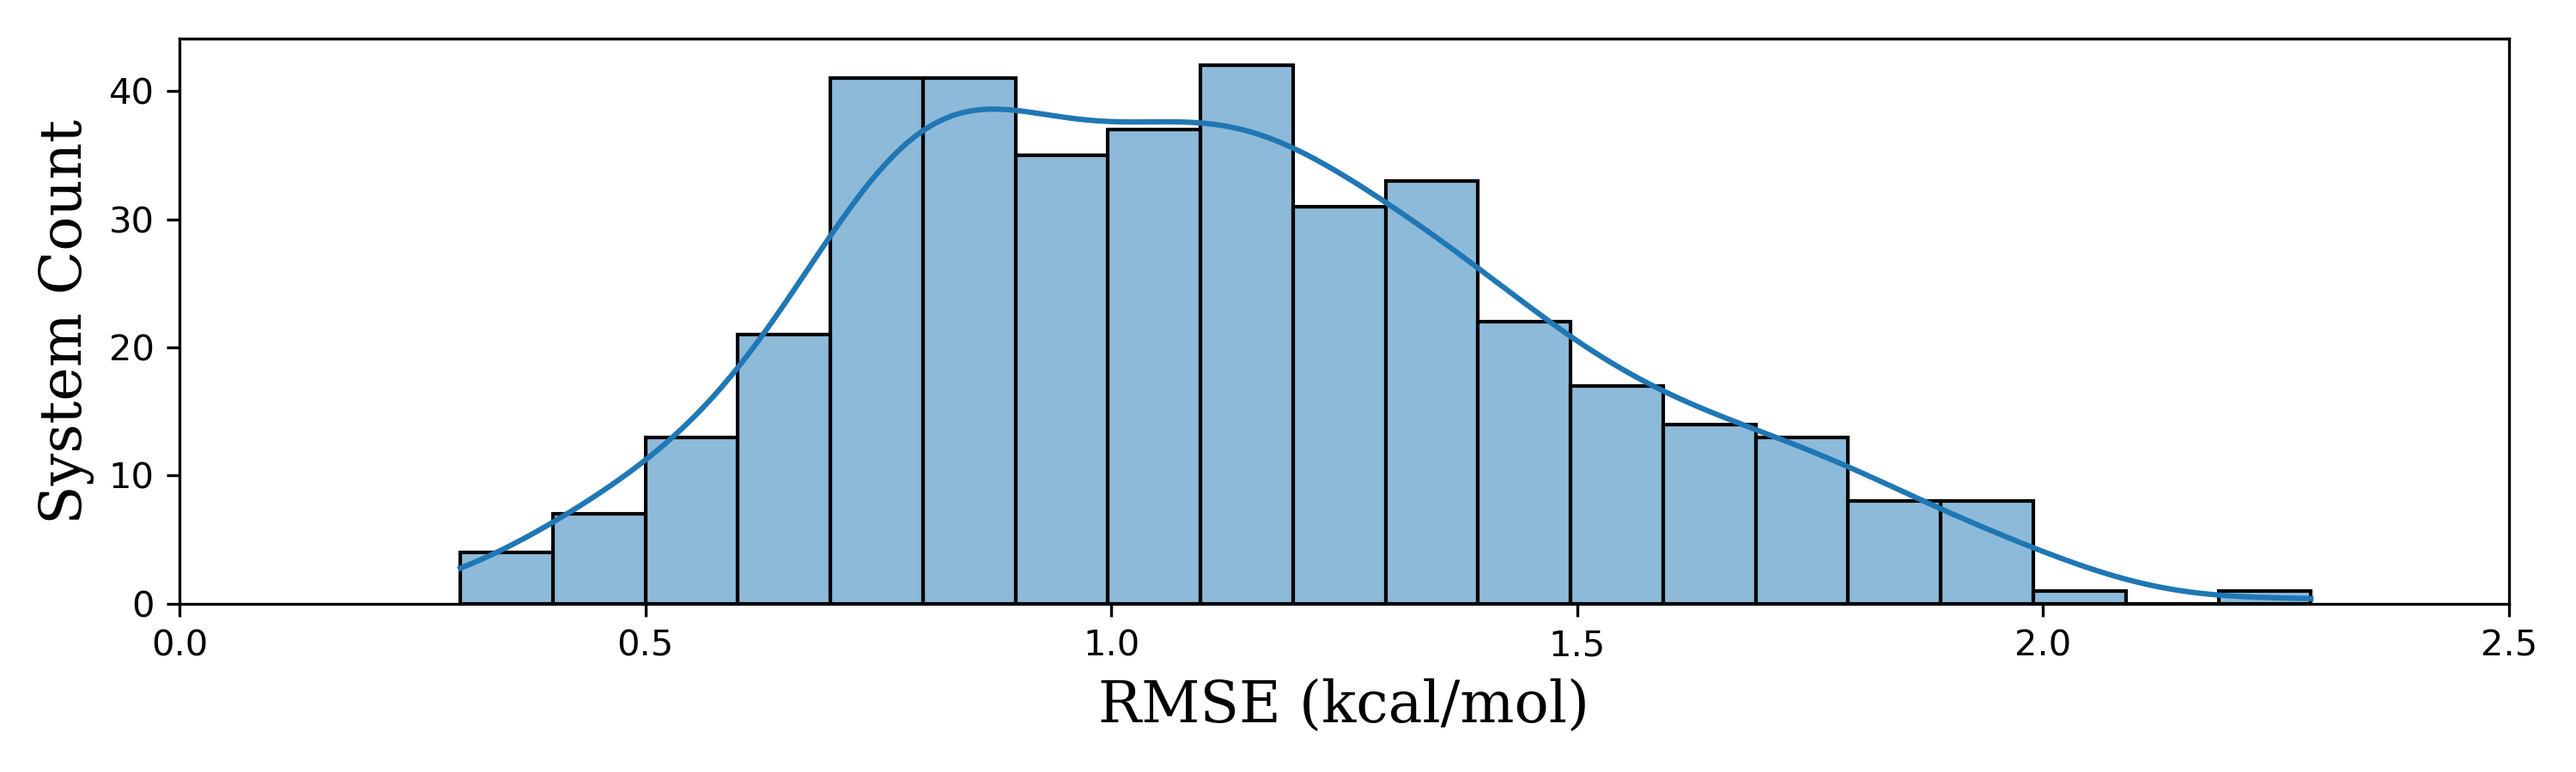
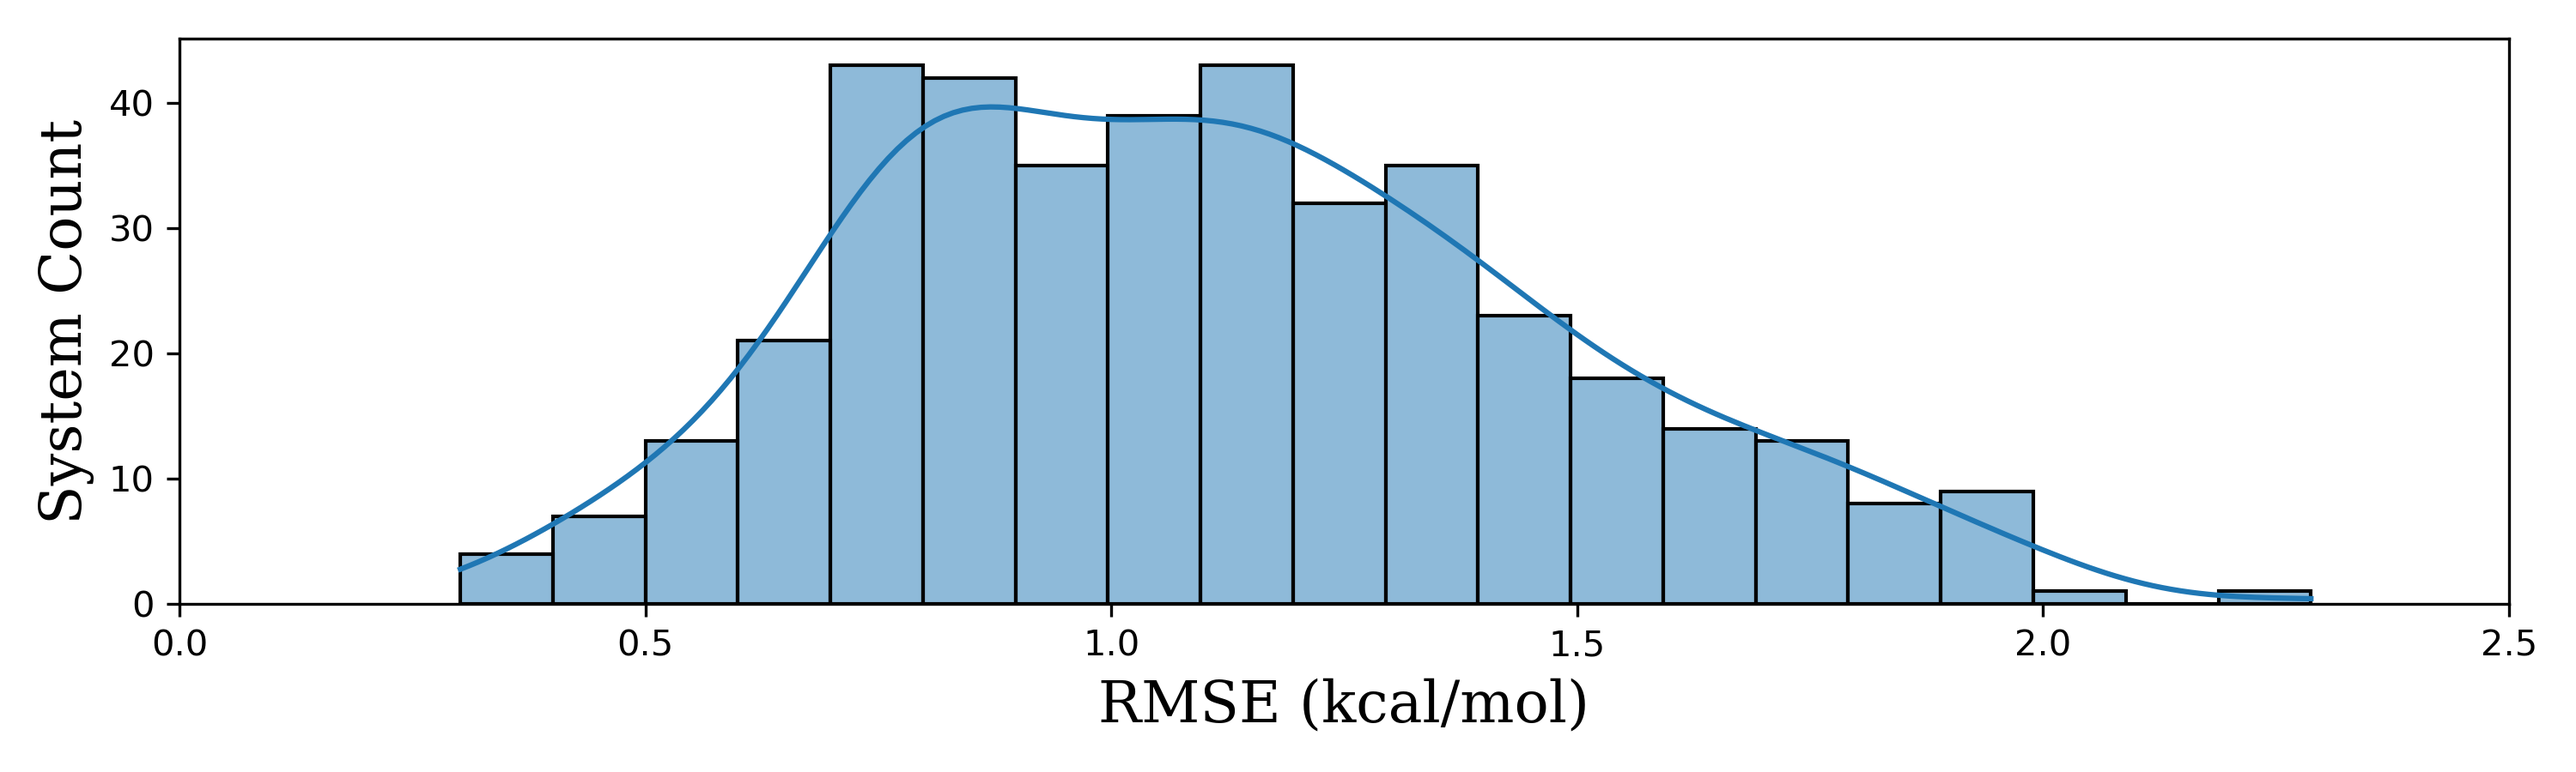
add 33_34_cases

diff --git a/README.md b/README.md
@@ -34,8 +34,8 @@ For more details, please refer to our [FEP Open Challenge introduction](https://
 
 
 ## Summary of Benchmark Results
-**Total Systems**: 389  
-**Total Ligands**: 6745
+**Total Systems**: 401  
+**Total Ligands**: 7149
 ![RMSE Distribution](rmse_distribution.png)
 ![Kendall's tau Distribution](tau_distribution.png)
 | Series | Target | N_Ligands | RMSE (kcal/mol) | R² | Kendall's tau | Description |
@@ -116,6 +116,7 @@ For more details, please refer to our [FEP Open Challenge introduction](https://
 | ChEMBL | CNR2 | 22 | 1.60 | 0.59 | 0.55 | CHEMBL921109 |
 | ChEMBL | CREBBP | 12 | 0.56 | 0.91 | 0.82 | CHEMBL3817157 |
 | ChEMBL | CREBBP | 18 | 0.70 | 0.59 | 0.50 | CHEMBL4058600 |
+| ChEMBL | CREBBP | 34 | 0.71 | 0.75 | 0.53 | CHEMBL4186385 |
 | ChEMBL | CSF1R | 25 | 1.54 | 0.42 | 0.44 | CHEMBL951197 |
 | ChEMBL | CSNK1D | 13 | 1.48 | 0.47 | 0.50 | CHEMBL2211470 |
 | ChEMBL | CTSS | 9 | 1.31 | 0.25 | 0.44 | CHEMBL1212307 |
@@ -159,6 +160,7 @@ For more details, please refer to our [FEP Open Challenge introduction](https://
 | ChEMBL | ESRRG | 20 | 1.12 | 0.19 | 0.32 | CHEMBL3857086 |
 | ChEMBL | ESRRG | 25 | 1.41 | 0.45 | 0.38 | CHEMBL4413805 |
 | ChEMBL | ESRRG | 9 | 0.95 | 0.41 | 0.48 | CHEMBL867061 |
+| ChEMBL | F10 | 34 | 1.54 | 0.75 | 0.60 | CHEMBL1925585 |
 | ChEMBL | F10 | 17 | 1.16 | 0.38 | 0.43 | CHEMBL3371468 |
 | ChEMBL | F10 | 27 | 1.07 | 0.37 | 0.41 | CHEMBL5107327 |
 | ChEMBL | F10 | 15 | 1.17 | 0.25 | 0.36 | CHEMBL657275 |
@@ -171,6 +173,7 @@ For more details, please refer to our [FEP Open Challenge introduction](https://
 | ChEMBL | F10 | 9 | 0.75 | 0.72 | 0.56 | CHEMBL906423 |
 | ChEMBL | F11 | 25 | 1.15 | 0.56 | 0.58 | CHEMBL3129742 |
 | ChEMBL | F2 | 16 | 0.84 | 0.65 | 0.58 | CHEMBL1067528 |
+| ChEMBL | F2 | 33 | 1.89 | 0.32 | 0.41 | CHEMBL3424914 |
 | ChEMBL | F2 | 14 | 0.78 | 0.82 | 0.71 | CHEMBL4479424 |
 | ChEMBL | F2 | 18 | 1.90 | 0.20 | 0.41 | CHEMBL808337 |
 | ChEMBL | F2 | 18 | 1.45 | 0.23 | 0.43 | CHEMBL813625 |
@@ -190,6 +193,7 @@ For more details, please refer to our [FEP Open Challenge introduction](https://
 | ChEMBL | GSK3B | 25 | 0.75 | 0.73 | 0.71 | CHEMBL1031513 |
 | ChEMBL | GSK3B | 22 | 1.31 | 0.58 | 0.53 | CHEMBL1102983 |
 | ChEMBL | GSK3B | 20 | 1.10 | 0.43 | 0.56 | CHEMBL1960393 |
+| ChEMBL | GSK3B | 34 | 1.33 | 0.46 | 0.40 | CHEMBL5252935 |
 | ChEMBL | HSP90AA1 | 18 | 0.98 | 0.29 | 0.11 | CHEMBL3107812 |
 | ChEMBL | HSP90AA1 | 9 | 0.99 | 0.62 | 0.67 | CHEMBL3427922 |
 | ChEMBL | HSP90AA1 | 23 | 1.60 | 0.38 | 0.44 | CHEMBL3885742 |
@@ -209,6 +213,7 @@ For more details, please refer to our [FEP Open Challenge introduction](https://
 | ChEMBL | JAK1 | 10 | 0.51 | 0.65 | 0.72 | CHEMBL4620434 |
 | ChEMBL | JAK2 | 29 | 0.77 | 0.77 | 0.58 | CHEMBL1685409 |
 | ChEMBL | JAK2 | 13 | 0.69 | 0.47 | 0.40 | CHEMBL2160361 |
+| ChEMBL | JAK2 | 34 | 1.00 | 0.57 | 0.61 | CHEMBL2421805 |
 | ChEMBL | JAK2 | 30 | 0.86 | 0.42 | 0.42 | CHEMBL3374493 |
 | ChEMBL | JAK2 | 16 | 1.41 | 0.64 | 0.62 | CHEMBL3404501 |
 | ChEMBL | JAK2 | 15 | 0.84 | 0.42 | 0.45 | CHEMBL3625473 |
@@ -271,6 +276,7 @@ For more details, please refer to our [FEP Open Challenge introduction](https://
 | ChEMBL | MDM2 | 12 | 0.46 | 0.31 | 0.30 | CHEMBL3705138 |
 | ChEMBL | MELK | 13 | 0.91 | 0.57 | 0.35 | CHEMBL3824963 |
 | ChEMBL | MELK | 8 | 0.79 | 0.72 | 0.62 | CHEMBL4006633 |
+| ChEMBL | METAP2 | 34 | 1.48 | 0.31 | 0.24 | CHEMBL4397057 |
 | ChEMBL | MET | 10 | 0.78 | 0.34 | 0.40 | CHEMBL1038130 |
 | ChEMBL | MET | 8 | 1.05 | 0.90 | 0.79 | CHEMBL2032485 |
 | ChEMBL | MET | 22 | 2.00 | 0.71 | 0.51 | CHEMBL3226601 |
@@ -280,6 +286,7 @@ For more details, please refer to our [FEP Open Challenge introduction](https://
 | ChEMBL | MET | 16 | 0.60 | 0.61 | 0.66 | CHEMBL4426787 |
 | ChEMBL | MMP13 | 13 | 1.22 | 0.83 | 0.58 | CHEMBL1798873 |
 | ChEMBL | MMP13 | 31 | 1.25 | 0.69 | 0.57 | CHEMBL3373425 |
+| ChEMBL | MMP13 | 34 | 1.03 | 0.59 | 0.57 | CHEMBL3388707 |
 | ChEMBL | MTAP | 17 | 0.98 | 0.40 | 0.38 | CHEMBL2073357 |
 | ChEMBL | NEK2 | 11 | 1.12 | 0.35 | 0.45 | CHEMBL1693342 |
 | ChEMBL | NEK2 | 19 | 1.42 | 0.42 | 0.46 | CHEMBL2044151 |
@@ -292,6 +299,8 @@ For more details, please refer to our [FEP Open Challenge introduction](https://
 | ChEMBL | PARP1 | 28 | 1.68 | 0.61 | 0.54 | CHEMBL1115415 |
 | ChEMBL | PARP2 | 16 | 1.45 | 0.35 | 0.55 | CHEMBL3607347 |
 | ChEMBL | PDE10A | 28 | 1.06 | 0.47 | 0.56 | CHEMBL1960211 |
+| ChEMBL | PDE10A | 33 | 0.86 | 0.27 | 0.31 | CHEMBL2020845 |
+| ChEMBL | PDE10A | 33 | 0.77 | 0.23 | 0.30 | CHEMBL2071880 |
 | ChEMBL | PDE10A | 17 | 1.46 | 0.37 | 0.50 | CHEMBL3297609 |
 | ChEMBL | PDE10A | 28 | 1.59 | 0.55 | 0.61 | CHEMBL3632375 |
 | ChEMBL | PDE1B | 13 | 1.16 | 0.51 | 0.53 | CHEMBL4011522 |
@@ -320,6 +329,7 @@ For more details, please refer to our [FEP Open Challenge introduction](https://
 | ChEMBL | PIM1 | 16 | 0.95 | 0.47 | 0.48 | CHEMBL1022925 |
 | ChEMBL | PIM1 | 12 | 0.77 | 0.55 | 0.50 | CHEMBL2038828 |
 | ChEMBL | PIM1 | 14 | 1.72 | 0.36 | 0.42 | CHEMBL2149642 |
+| ChEMBL | PIM1 | 35 | 1.21 | 0.52 | 0.57 | CHEMBL3301295 |
 | ChEMBL | PIM1 | 13 | 1.28 | 0.69 | 0.71 | CHEMBL3376646 |
 | ChEMBL | PIM1 | 17 | 1.37 | 0.48 | 0.41 | CHEMBL3887608 |
 | ChEMBL | PIM1 | 15 | 1.31 | 0.21 | 0.45 | CHEMBL4222672 |
@@ -347,7 +357,9 @@ For more details, please refer to our [FEP Open Challenge introduction](https://
 | ChEMBL | REN | 23 | 1.18 | 0.62 | 0.43 | CHEMBL3406487 |
 | ChEMBL | REN | 12 | 1.22 | 0.28 | 0.42 | CHEMBL828516 |
 | ChEMBL | REN | 15 | 0.78 | 0.59 | 0.58 | CHEMBL898576 |
+| ChEMBL | REN | 33 | 1.18 | 0.30 | 0.41 | CHEMBL957839 |
 | ChEMBL | RET | 10 | 1.21 | 0.60 | 0.56 | CHEMBL4836452 |
+| ChEMBL | RIPK2 | 33 | 1.37 | 0.47 | 0.47 | CHEMBL4135584 |
 | ChEMBL | RIPK2 | 12 | 1.20 | 0.46 | 0.52 | CHEMBL4269599 |
 | ChEMBL | RIPK2 | 28 | 1.77 | 0.22 | 0.44 | CHEMBL4771083 |
 | ChEMBL | ROCK2 | 26 | 0.79 | 0.21 | 0.30 | CHEMBL2444040 |
